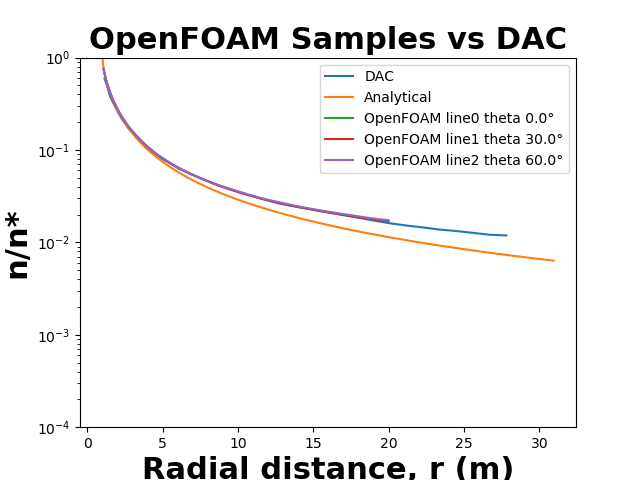
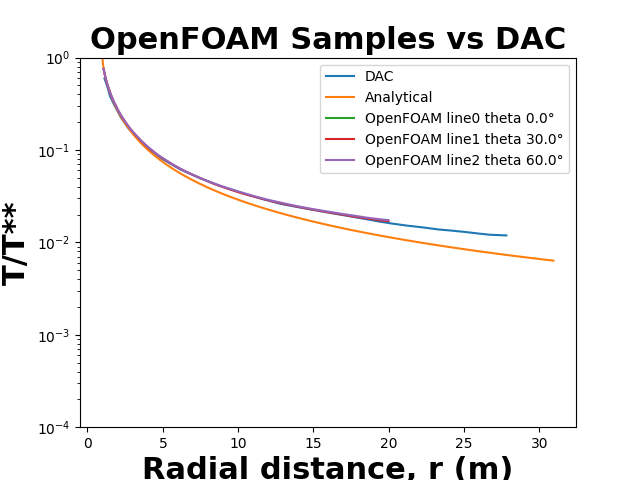
2d-wedge: fix ylabel

diff --git a/cases/2d-wedge/graphSampleValidation.py b/cases/2d-wedge/graphSampleValidation.py
@@ -72,7 +72,7 @@ degree_sign = u'\N{DEGREE SIGN}'
 
 # Plot simulated data
 plt.title('OpenFOAM Samples vs DAC', fontdict = font_axis_publish)
-plt.ylabel('n/n*', fontdict = font_axis_publish)
+plt.ylabel('T/T**', fontdict = font_axis_publish)
 plt.xlabel('Radial distance, r (m)', fontdict = font_axis_publish)
 plt.plot(digi_T['r'], digi_T['T_Tstar'], label = 'DAC')
 plt.plot(rrt, TTt, label = 'Analytical')
